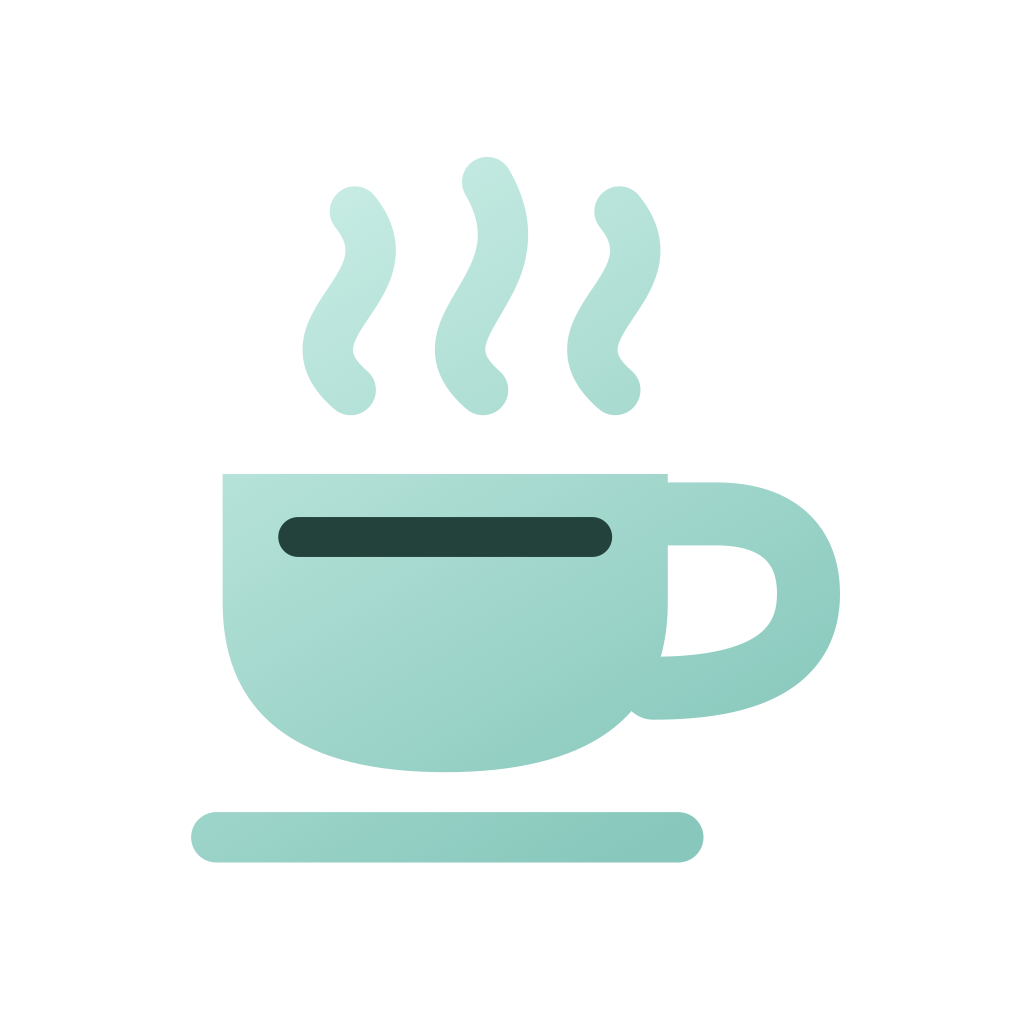
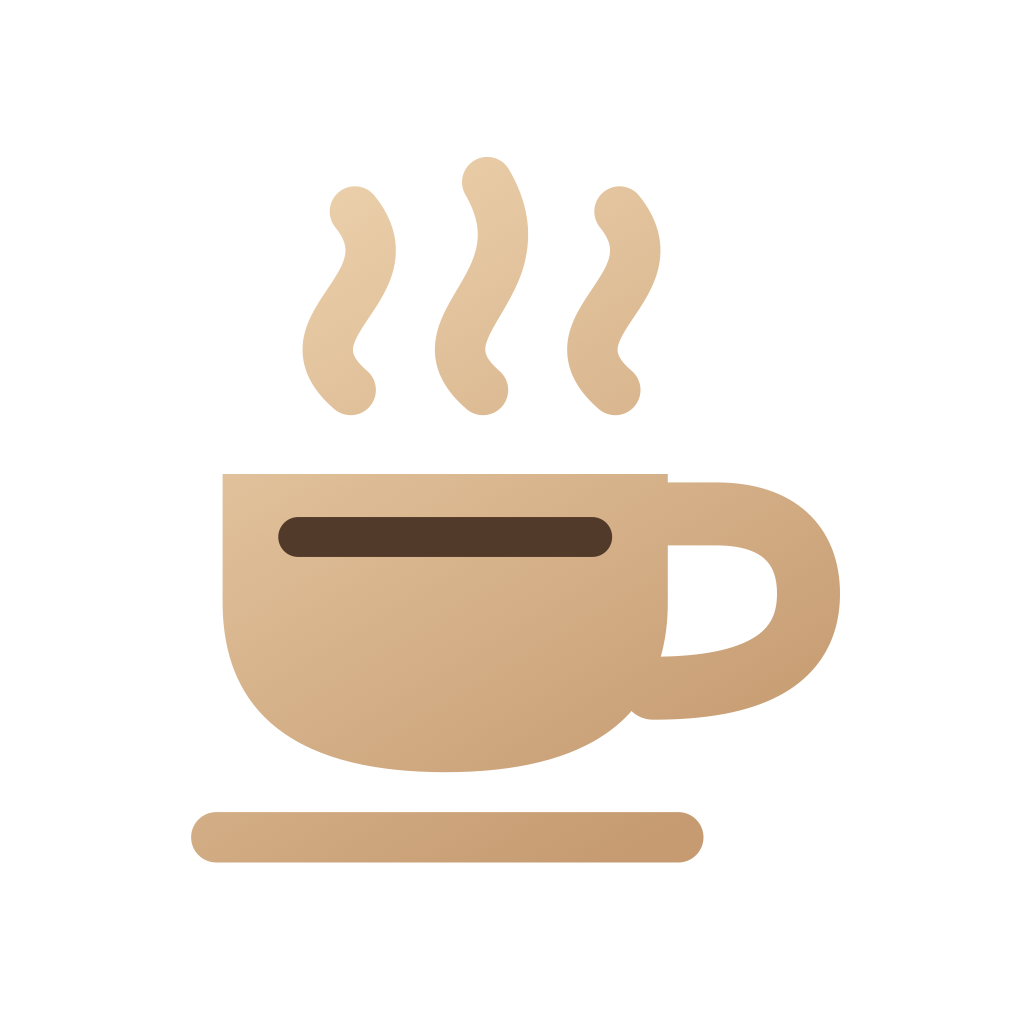
Recolor Caffeinate to coffee brown
Moves the app icon and the popover's header tint from teal to coffee brown, and adds a matching `AccentColor` that `scripts/build.sh` passes to `actool`, so toggles and prominent buttons follow it. The active menu bar icon becomes a filled template glyph that macOS tints like the outlined idle one.

diff --git a/Sources/Caffeinate/StatusItemIcon.swift b/Sources/Caffeinate/StatusItemIcon.swift
@@ -63,20 +63,17 @@ private extension StatusItemIcon {
     @MainActor
     func baseImage() -> NSImage? {
         if let named = NSImage(named: isActive ? StatusItemController.activeImageName : StatusItemController.idleImageName) {
-            // The active icon keeps its own teal/mint colors; macOS tints the idle one.
-            named.isTemplate = !isActive
+            named.isTemplate = true
             return named
         }
         // Covers unbundled runs (`swift run`), where the asset catalog is absent; symbols are templates.
         return NSImage(systemSymbolName: isActive ? "cup.and.heat.waves.fill" : "cup.and.heat.waves", accessibilityDescription: nil)
     }
 
-    /// A template image can't carry a colored dot, so the badged image is not a template. It tints the idle glyph
-    /// with `labelColor` itself; the drawing handler runs at draw time, so that color and the active icon's asset
-    /// variant follow the menu bar's current appearance.
+    /// A template image can't carry a colored dot, so the badged image is not a template.
+    /// It tints the glyph with `labelColor` at draw time to follow the menu bar's current appearance.
     @MainActor
     func badged(_ base: NSImage, color: NSColor) -> NSImage {
-        let tintsBase = base.isTemplate
         let image = NSImage(size: base.size, flipped: false) { rect in
             guard let context = NSGraphicsContext.current?.cgContext else {
                 return false
@@ -84,10 +81,8 @@ private extension StatusItemIcon {
             // A transparency layer keeps the tint from compositing onto whatever is already drawn beneath the icon.
             context.beginTransparencyLayer(auxiliaryInfo: nil)
             base.draw(in: rect)
-            if tintsBase {
-                NSColor.labelColor.set()
-                rect.fill(using: .sourceAtop)
-            }
+            NSColor.labelColor.set()
+            rect.fill(using: .sourceAtop)
             color.setFill()
             NSBezierPath(ovalIn: NSRect(
                 x: rect.maxX - Self.badgeDiameter,

diff --git a/Sources/Caffeinate/PopoverView.swift b/Sources/Caffeinate/PopoverView.swift
@@ -6,7 +6,7 @@ import SwiftUI
 /// The status item's popover. It relies on the system's Liquid Glass popover background, so it adds none of its own.
 struct PopoverView: View {
     /// The app icon's background fill.
-    private static let teal = Color(.displayP3, red: 0.17, green: 0.49, blue: 0.46)
+    private static let coffee = Color(.sRGB, red: 149 / 255, green: 107 / 255, blue: 71 / 255)
 
     let awake: AwakeController
     let launchAtLogin: LaunchAtLogin
@@ -41,7 +41,7 @@ struct PopoverView: View {
                 // Not `.white`: inactive windows drop the glass tint, which would leave white on light glass.
                 .foregroundStyle(awake.isActive ? .primary : .secondary)
                 .frame(width: 44, height: 44)
-                .glassEffect(.regular.tint(awake.isActive ? Self.teal : nil), in: .circle)
+                .glassEffect(.regular.tint(awake.isActive ? Self.coffee : nil), in: .circle)
                 .accessibilityHidden(true)
             VStack(alignment: .leading, spacing: 2) {
                 Text("Caffeinate")

diff --git a/Sources/Caffeinate/StatusItemController.swift b/Sources/Caffeinate/StatusItemController.swift
@@ -65,7 +65,7 @@ final class StatusItemController: NSObject, NSPopoverDelegate {
         }
         let image = icon.image()
         button.image = image
-        // Offers a template copy for the highlighted state, so macOS can tint the colored icons there.
+        // A template copy also lets macOS tint icons carrying colored update badges when highlighted.
         let highlightedImage = image?.copy() as? NSImage
         highlightedImage?.isTemplate = true
         button.alternateImage = highlightedImage

diff --git a/Resources/AGENTS.md b/Resources/AGENTS.md
@@ -4,6 +4,7 @@ These instructions cover the app bundle inputs under `Resources/`.
 
 - These are not SwiftPM resources; `scripts/build.sh` copies `Info.plist` and compiles the asset catalog and `AppIcon.icon` with `actool`.
 - Keep `CFBundleExecutable` equal to the SwiftPM executable product name in `Package.swift`.
-- Leave icon keys out of `Info.plist`; `scripts/build.sh` merges them from actool's output.
+- Leave icon and accent color keys out of `Info.plist`; `scripts/build.sh` merges them from actool's output.
+- Keep `Resources/Assets.xcassets/AccentColor.colorset` and `coffee` in `Sources/Caffeinate/PopoverView.swift` equal to the sRGB conversion of the `Resources/AppIcon.icon/icon.json` fill.
 - Edit `AppIcon.icon` with Icon Composer.
-- Keep the menu bar SVGs on an 18 pt canvas. `CoffeeMenuBarIdleTemplate` uses template rendering; `CoffeeMenuBarActive` keeps original colors with a dark-appearance variant.
+- Keep `CoffeeMenuBarActive` and `CoffeeMenuBarIdleTemplate` on an 18 pt canvas with template rendering so macOS supplies their menu bar tint.

diff --git a/README.md b/README.md
@@ -6,7 +6,7 @@
   </a>
 </p>
 
-A macOS menu bar app that keeps your Mac awake, equivalent to `caffeinate -dims`. Click the coffee cup to open a Liquid Glass popover with a **Stay awake** toggle and a duration slider: **Indefinite** at the far left, then 5-minute steps up to 12 hours. During a timed session the slider counts down, returning to **Indefinite** when time is up. The cup fills with color while your Mac is being kept awake.
+A macOS menu bar app that keeps your Mac awake, equivalent to `caffeinate -dims`. Click the coffee cup to open a Liquid Glass popover with a **Stay awake** toggle and a duration slider: **Indefinite** at the far left, then 5-minute steps up to 12 hours. During a timed session the slider counts down, returning to **Indefinite** when time is up. The cup is filled while your Mac is being kept awake and outlined while idle; macOS supplies its tint to suit the menu bar.
 
 While on, it holds the same IOKit power assertions as `caffeinate -dims`:
 
